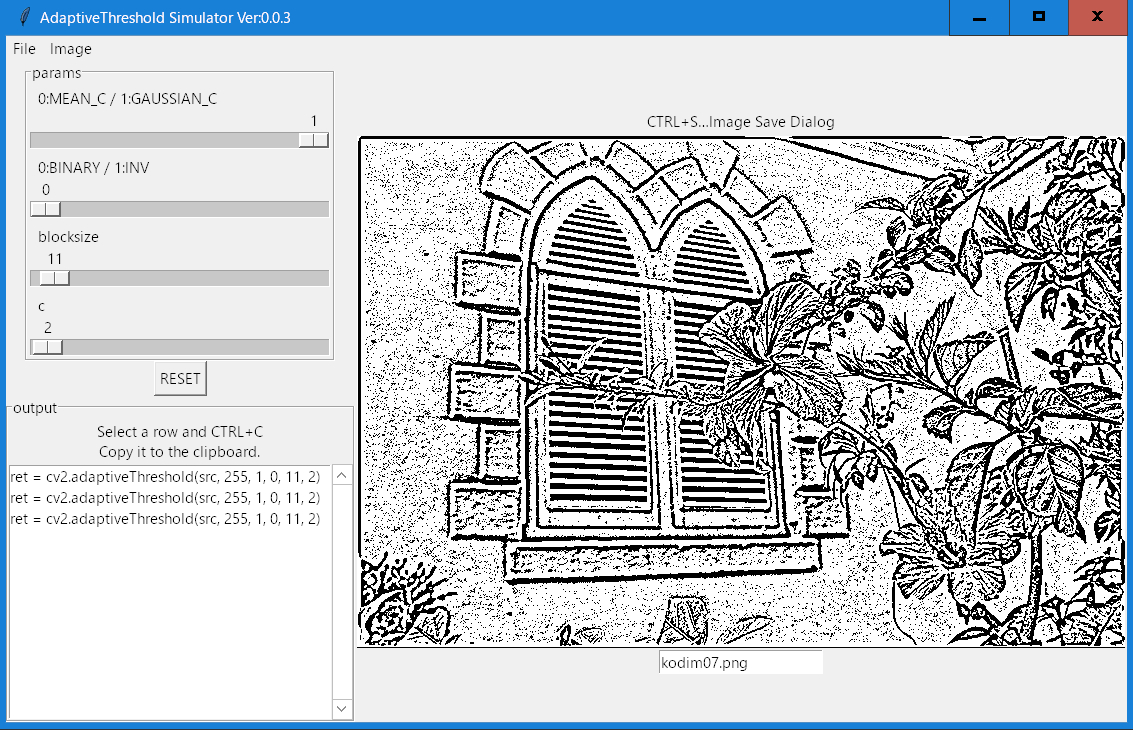
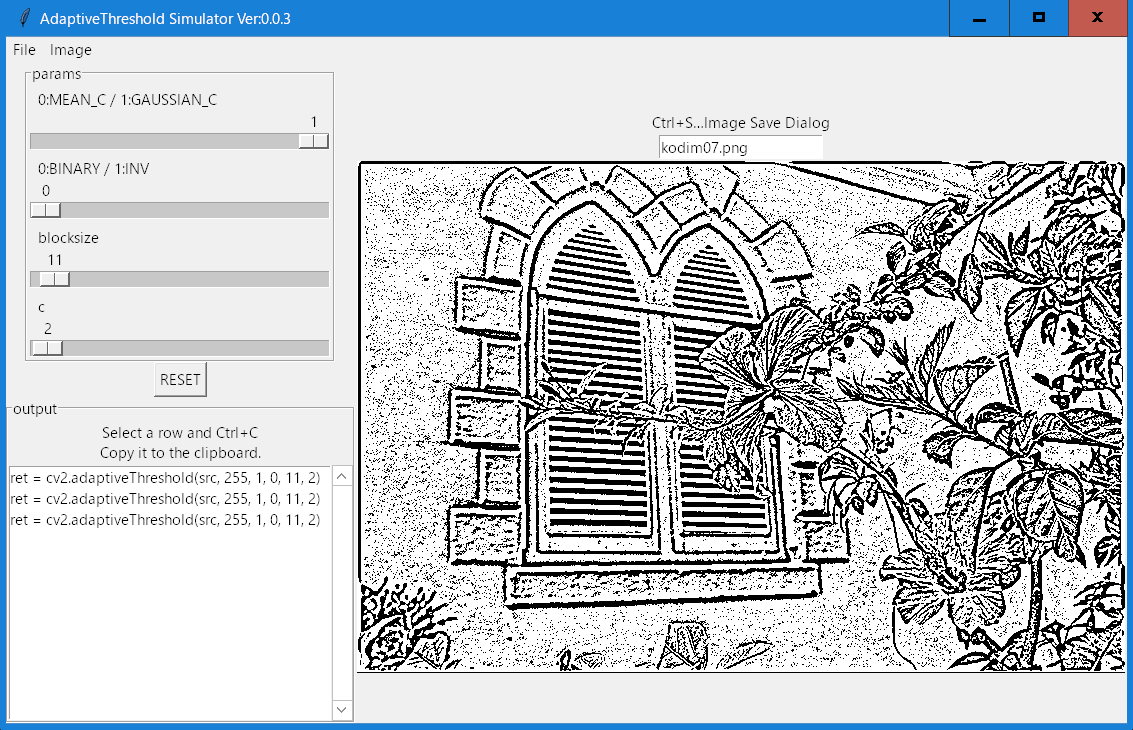
ver3

diff --git a/src/adaptiveThreshold.py b/src/adaptiveThreshold.py
@@ -163,9 +163,12 @@ class Application(tk.Frame):
         self.menu_bar = self.create_menubar()
         self.master.configure(menu=self.menu_bar)
         self.create_widgets()
-
-        self.a_side.pack(side=tk.LEFT)
-        self.main_side.pack(side=tk.LEFT, fill=tk.Y)
+        self.a_side.grid(column=0,row=0, sticky=tk.W)
+        self.main_side.grid(column=1, row=0, sticky=tk.W)
+        #self.a_side.pack(side=tk.LEFT)
+        #self.main_side.pack(side=tk.LEFT, fill=tk.Y)
+        #self.a_side.pack(side=tk.LEFT)
+        #self.main_side.pack(side=tk.LEFT, fill=tk.Y)
 
     def create_menubar(self) -> tk.Menu:
         """
@@ -311,8 +314,10 @@ class Application(tk.Frame):
     def output_frame(self):
         self.output_frame = tk.LabelFrame(self.a_side, text='output')
         self.output_frame.pack(side=tk.TOP, fill=tk.Y)
+
+        #self.label_message = tk.Message(self.output_frame, text='Select a row and Ctrl+C\nCopy it to the clipboard.', width=200)
         self.label_message = tk.Label(self.output_frame, text='Select a row and Ctrl+C\nCopy it to the clipboard.')
-        self.label_message.pack()
+        self.label_message.pack(expand=True,side=tk.TOP,fill=tk.X)
 
         class ScrollListBox(tk.Listbox):
             def __init__(self, master=None, cnf={}, **kw):

diff --git a/README.md b/README.md
@@ -20,7 +20,7 @@ GUI widget: tkinter
 ## Using
 
 ```
-python adaptiveThreshold.py sakura.jpg
+python adaptiveThreshold.py images\kodim07.png
 ```
 
 ## Source code License
